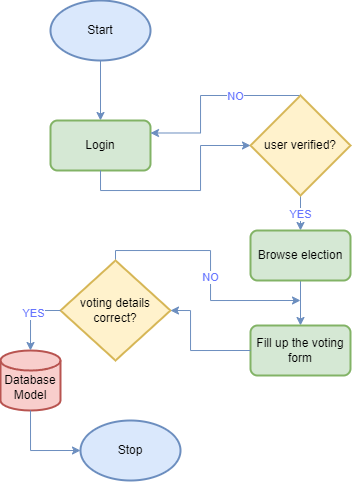
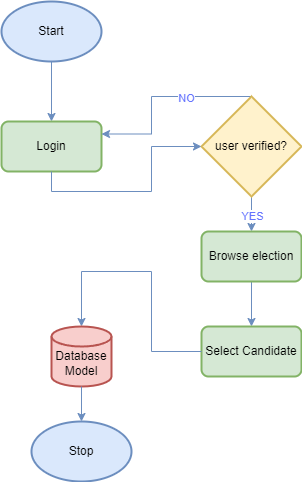
updated design doc

diff --git a/deliverables/design.md b/deliverables/design.md
@@ -17,11 +17,13 @@ A User's vote shall be cast to a database where all votes are pooled
 **Requirement 1.2**  
 The system shall provide a secure interface for students to cast their votes.
 * Cast your vote
-  * Navigate to desired election
-  * *View details* of the election
-  * Fill up the voting form presented for that selected election which is at the bottom of the page
+  * Navigate to election voting ballot
+  * Browse for your favorite candidate for desired post
+  * Select the candidate by clicking the *radio button* infront of each candidate
+  * After Selecting, press *vote button* at the bottom of the page
+
 * Wireframe Designs:    
-<img src="./assets/wireframes/Elections-Details.png" width=400 height=400>
+<img src="./assets/wireframes/Voting-Ballot.png" width=500 height=400>
 
 * Flowchart Designs:    
 <img src="./assets/flowchart/req1storevote.png" width=300 height=350>
@@ -31,12 +33,12 @@ The system shall provide a secure interface for students to cast their votes.
 **Requirement 2.1**   
 A confirmation message shall be displayed immediately after vote submission.
 * Vote
-  * Enter desired candidate's credentials
+  * Select candidate
   * Press Vote button
   * A confirmation pop-up dialog box is displayed
 
 * Wireframe Designs:    
-<img src="./assets/wireframes/popup.png" width=500 height=400>
+<img src="./assets/wireframes/popup.png" width=800 height=450>
 
 * Flowchart Designs:    
 <img src="./assets/flowchart/popup.png" width=350 height=350>
@@ -44,12 +46,12 @@ A confirmation message shall be displayed immediately after vote submission.
 **Requirement 2.2**  
 The system shall send an email to the voter once the vote has been succesfully recorded.
 * Vote
-  * Enter desired candidate's credentials
+  * Select desired candidate
   * Press Vote button
   * A confirmation email is sent
 
 * Wireframe Designs:    
-<img src="./assets/wireframes/email.png" width=550 height=400>
+<img src="./assets/wireframes/email.png" width=900 height=480>
 
 * Flowchart Designs:    
 <img src="./assets/flowchart/email.png" width=350 height=350>
@@ -126,8 +128,7 @@ Student shall have access to all the details about the election and election det
   * Press the *view details* button of the desired election
   * Details of the selected election is displayed in a new page
 * Wireframe Designs:    
-<img src="./assets/wireframes/Elections.png" width=300 height=300>
-<img src="./assets/wireframes/Elections-Details.png" width=300 height=300>
+<img src="./assets/wireframes/Elections.png" width=300 height=350>
 
 * Flowchart Designs:    
 <img src="./assets/flowchart/elections-details.png" width=300 height=300>
@@ -140,8 +141,7 @@ The user interface shall provide an option to view descriptions of each candidat
   * Press anywhere on the conatiner box of desired candidate
   * Details of the selected candidate is displayed in a new page
 * Wireframe Designs:    
-<img src="./assets/wireframes/Candidates.png" width=300 height=300>
-<img src="./assets/wireframes/Candidates-Details.png" width=300 height=300>
+<img src="./assets/wireframes/Candidates.png" width=300 height=350>
 
 * Flowchart Designs:    
 <img src="./assets/flowchart/candidates-details.png" width=250 height=400>
